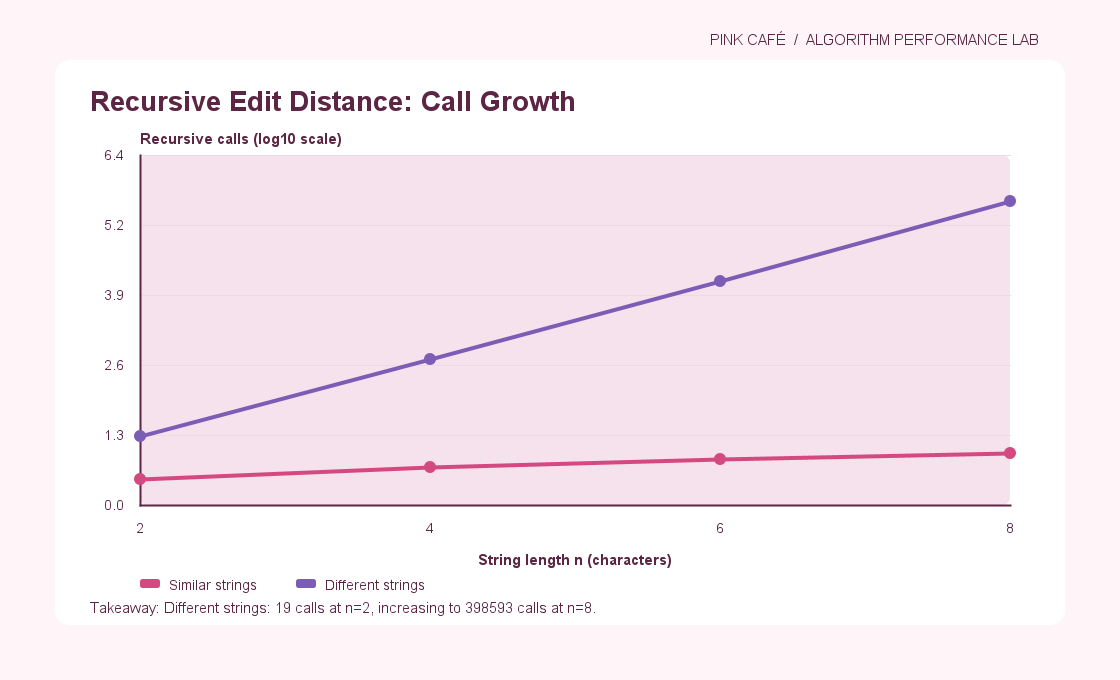
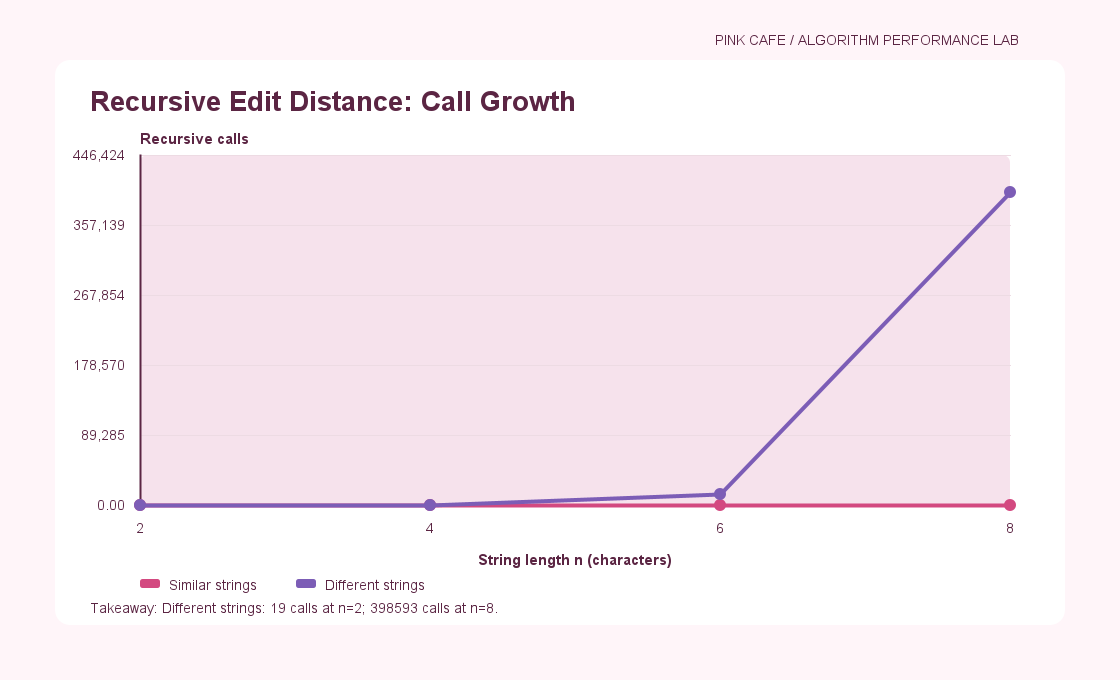
Update experiment results and charts

diff --git a/src/main/java/pinkcafe/PlotGenerator.java b/src/main/java/pinkcafe/PlotGenerator.java
@@ -1,0 +1,196 @@
+package pinkcafe;
+
+import javax.imageio.ImageIO;
+import java.awt.*;
+import java.awt.geom.*;
+import java.awt.image.BufferedImage;
+import java.io.IOException;
+import java.nio.file.*;
+import java.util.*;
+import java.util.List;
+
+public class PlotGenerator {
+    private static final int W = 1120, H = 680;
+    private static final int LEFT = 140, RIGHT = 1010, TOP = 155, BOTTOM = 505;
+    private static final Color INK = new Color(91, 37, 67);
+    private static final Color PINK = new Color(211, 73, 128);
+    private static final Color PURPLE = new Color(124, 93, 182);
+    private static final Color PALE = new Color(255, 245, 249);
+    private static final Color GRID = new Color(237, 219, 227);
+
+    private record Result(String algorithm, String input, int n, double ms, long count) {}
+
+    public static void main(String[] args) throws IOException {
+        Path csv = Path.of("results", "summary.csv");
+        if (!Files.exists(csv)) {
+            System.out.println("Run ExperimentRunner first: results/summary.csv is missing.");
+            return;
+        }
+        List<Result> data = read(csv);
+        Path folder = Path.of("results", "plots");
+        Files.createDirectories(folder);
+
+        int[] editSizes = {2, 4, 6, 8};
+        double[] similar = new double[editSizes.length];
+        double[] different = new double[editSizes.length];
+        for (int i = 0; i < editSizes.length; i++) {
+            similar[i] = find(data, "Recursive", "similar", editSizes[i]).count;
+            different[i] = find(data, "Recursive", "different", editSizes[i]).count;
+        }
+        String note1 = String.format(Locale.US,
+                "Different strings: %.0f calls at n=2; %.0f calls at n=8.",
+                different[0], different[3]);
+        draw(folder.resolve("01_recursive_calls.png"),
+                "Recursive Edit Distance: Call Growth",
+                "String length n (characters)", "Recursive calls",
+                editSizes, new double[][]{similar, different},
+                new String[]{"Similar strings", "Different strings"}, note1);
+
+        int[] dpSizes = {200, 400, 800, 1600};
+        double[] table = new double[dpSizes.length];
+        double[] twoRows = new double[dpSizes.length];
+        for (int i = 0; i < dpSizes.length; i++) {
+            table[i] = find(data, "Table", "different", dpSizes[i]).ms;
+            twoRows[i] = find(data, "TwoRows", "different", dpSizes[i]).ms;
+        }
+        String note2 = String.format(Locale.US,
+                "At n=1600: Table %.3f ms; Two Rows %.3f ms (median of 5).",
+                table[3], twoRows[3]);
+        draw(folder.resolve("02_dp_median_time.png"),
+                "Edit Distance: Table vs Two Rows",
+                "String length n (characters)", "Median execution time (ms)",
+                dpSizes, new double[][]{table, twoRows},
+                new String[]{"Full table", "Two rows"}, note2);
+
+        int[] searchSizes = {10000, 40000, 160000, 640000};
+        double[] naive = new double[searchSizes.length];
+        double[] kmp = new double[searchSizes.length];
+        for (int i = 0; i < searchSizes.length; i++) {
+            naive[i] = find(data, "Naive", "repeated", searchSizes[i]).count;
+            kmp[i] = find(data, "KMP", "repeated", searchSizes[i]).count;
+        }
+        double ratio = kmp[3] == 0 ? 0 : naive[3] / kmp[3];
+        String note3 = String.format(Locale.US,
+                "At n=640,000: Naive made %.2fx as many comparisons as KMP.", ratio);
+        // Keep the existing filename so links in REPORT.md still work.
+        draw(folder.resolve("03_naive_kmp_ratio.png"),
+                "String Search: Naive vs KMP",
+                "Text length n (characters)", "Character comparisons",
+                searchSizes, new double[][]{naive, kmp},
+                new String[]{"Naive", "KMP"}, note3);
+
+        Files.writeString(Path.of("results", "plot_notes.txt"),
+                "Chart 1: " + note1 + System.lineSeparator()
+                        + "Chart 2: " + note2 + System.lineSeparator()
+                        + "Chart 3: " + note3 + System.lineSeparator());
+        System.out.println("PINK CAFE - 3 plots created in results/plots/");
+    }
+
+    private static List<Result> read(Path path) throws IOException {
+        List<Result> rows = new ArrayList<>();
+        List<String> lines = Files.readAllLines(path);
+        for (int i = 1; i < lines.size(); i++) {
+            String[] c = lines.get(i).trim().split(",");
+            if (c.length < 5) continue;
+            rows.add(new Result(c[0], c[1], Integer.parseInt(c[2]),
+                    Double.parseDouble(c[3]), Long.parseLong(c[4])));
+        }
+        return rows;
+    }
+
+    private static Result find(List<Result> rows, String algorithm, String input, int n) {
+        for (Result r : rows) {
+            if (r.algorithm.equals(algorithm) && r.input.equals(input) && r.n == n) {
+                return r;
+            }
+        }
+        throw new IllegalStateException("Missing row: " + algorithm + " " + input + " " + n);
+    }
+
+    private static void draw(Path file, String title, String xLabel, String yLabel,
+                             int[] xs, double[][] series, String[] names,
+                             String note) throws IOException {
+        BufferedImage image = new BufferedImage(W, H, BufferedImage.TYPE_INT_RGB);
+        Graphics2D g = image.createGraphics();
+        g.setRenderingHint(RenderingHints.KEY_ANTIALIASING, RenderingHints.VALUE_ANTIALIAS_ON);
+        g.setColor(PALE);
+        g.fillRect(0, 0, W, H);
+        g.setColor(Color.WHITE);
+        g.fillRoundRect(55, 60, 1010, 565, 30, 30);
+        g.setColor(INK);
+        g.setFont(new Font("SansSerif", Font.BOLD, 27));
+        g.drawString(title, 90, 111);
+        g.setFont(new Font("SansSerif", Font.PLAIN, 14));
+        g.drawString("PINK CAFE / ALGORITHM PERFORMANCE LAB", 715, 45);
+        g.setColor(new Color(246, 226, 236));
+        g.fillRoundRect(LEFT, TOP, RIGHT - LEFT, BOTTOM - TOP, 15, 15);
+
+        double max = 0;
+        for (double[] values : series) {
+            for (double v : values) max = Math.max(max, v);
+        }
+        double yMax = max <= 0 ? 1 : max * 1.12;
+        g.setFont(new Font("SansSerif", Font.PLAIN, 14));
+        for (int k = 0; k <= 5; k++) {
+            double value = yMax * k / 5.0;
+            int y = BOTTOM - (int) Math.round((BOTTOM - TOP) * k / 5.0);
+            g.setColor(GRID);
+            g.setStroke(new BasicStroke(1));
+            g.drawLine(LEFT, y, RIGHT, y);
+            g.setColor(INK);
+            String label = formatNumber(value);
+            g.drawString(label, LEFT - 15 - g.getFontMetrics().stringWidth(label), y + 5);
+        }
+        g.setColor(INK);
+        g.setStroke(new BasicStroke(2));
+        g.drawLine(LEFT, TOP, LEFT, BOTTOM);
+        g.drawLine(LEFT, BOTTOM, RIGHT, BOTTOM);
+
+        // Even spacing makes all four input sizes readable.
+        for (int i = 0; i < xs.length; i++) {
+            int x = LEFT + (RIGHT - LEFT) * i / (xs.length - 1);
+            String label = String.format(Locale.US, "%,d", xs[i]);
+            g.drawString(label, x - g.getFontMetrics().stringWidth(label) / 2, BOTTOM + 28);
+        }
+
+        Color[] colors = {PINK, PURPLE};
+        for (int j = 0; j < series.length; j++) {
+            g.setColor(colors[j % colors.length]);
+            g.setStroke(new BasicStroke(4, BasicStroke.CAP_ROUND, BasicStroke.JOIN_ROUND));
+            int lastX = -1, lastY = -1;
+            for (int i = 0; i < xs.length; i++) {
+                int x = LEFT + (RIGHT - LEFT) * i / (xs.length - 1);
+                int y = BOTTOM - (int) Math.round((BOTTOM - TOP) * series[j][i] / yMax);
+                if (lastX >= 0) g.draw(new Line2D.Double(lastX, lastY, x, y));
+                g.fill(new Ellipse2D.Double(x - 6, y - 6, 12, 12));
+                lastX = x;
+                lastY = y;
+            }
+        }
+
+        g.setColor(INK);
+        g.setFont(new Font("SansSerif", Font.BOLD, 15));
+        g.drawString(yLabel, LEFT, 144);
+        g.drawString(xLabel, (LEFT + RIGHT - g.getFontMetrics().stringWidth(xLabel)) / 2, 565);
+
+        g.setFont(new Font("SansSerif", Font.PLAIN, 14));
+        int legendX = LEFT;
+        for (int j = 0; j < names.length; j++) {
+            g.setColor(colors[j % colors.length]);
+            g.fillRoundRect(legendX, 579, 20, 9, 5, 5);
+            g.setColor(INK);
+            g.drawString(names[j], legendX + 29, 590);
+            legendX += g.getFontMetrics().stringWidth(names[j]) + 68;
+        }
+        g.setColor(INK);
+        g.drawString("Takeaway: " + note, 90, 613);
+        g.dispose();
+        ImageIO.write(image, "png", file.toFile());
+    }
+
+    private static String formatNumber(double v) {
+        if (v >= 1000) return String.format(Locale.US, "%,.0f", v);
+        if (v >= 10) return String.format(Locale.US, "%.0f", v);
+        return String.format(Locale.US, "%.2f", v);
+    }
+}
